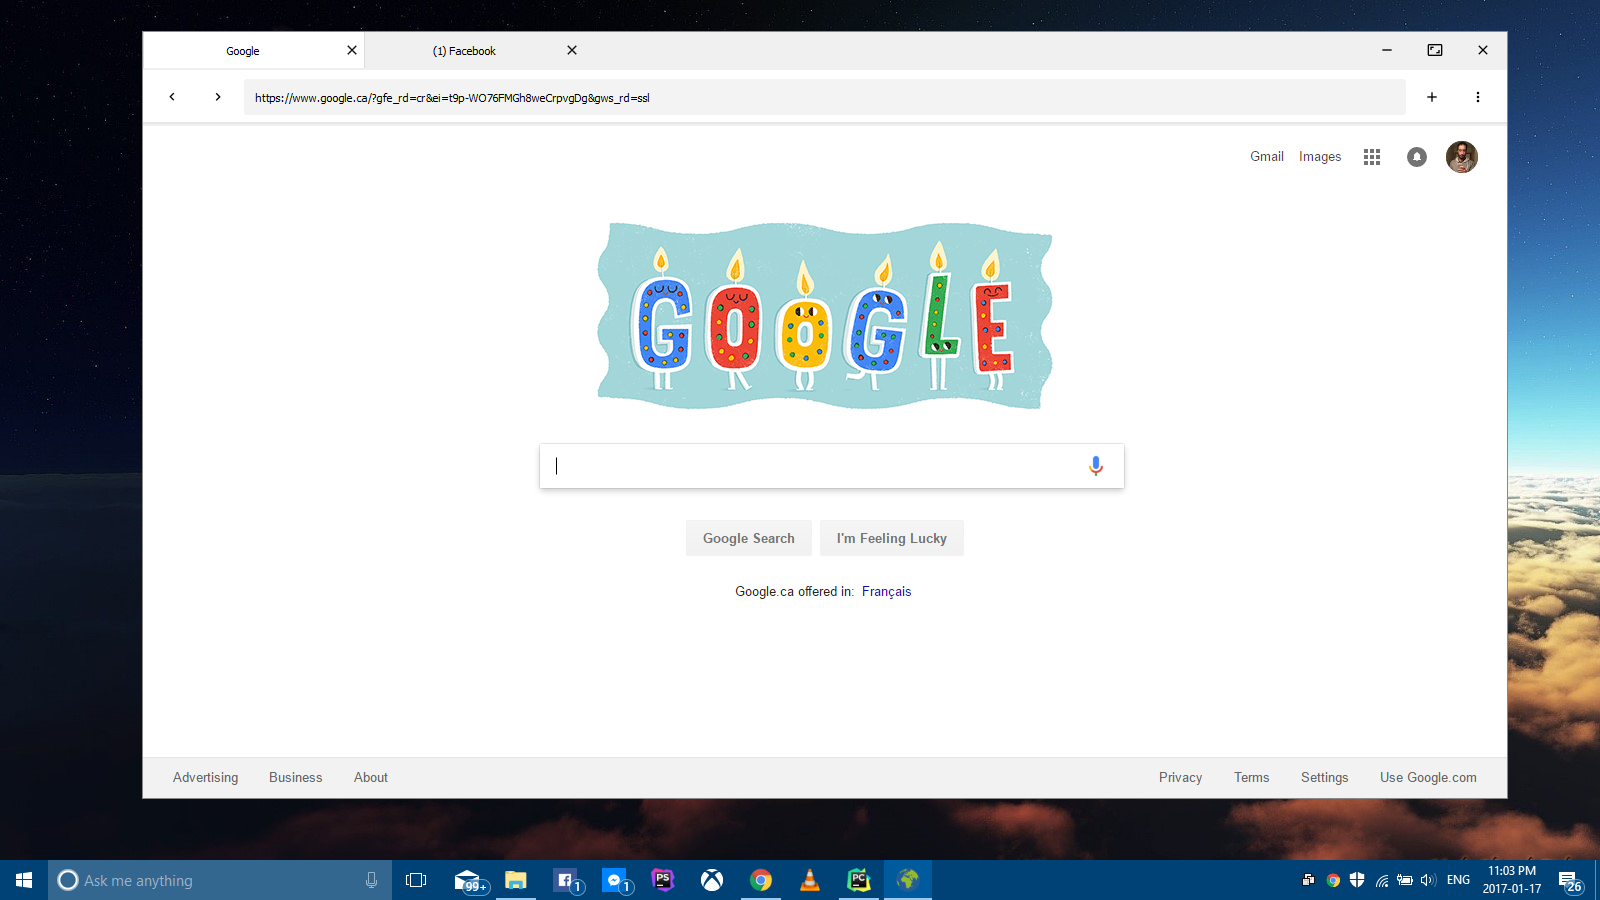
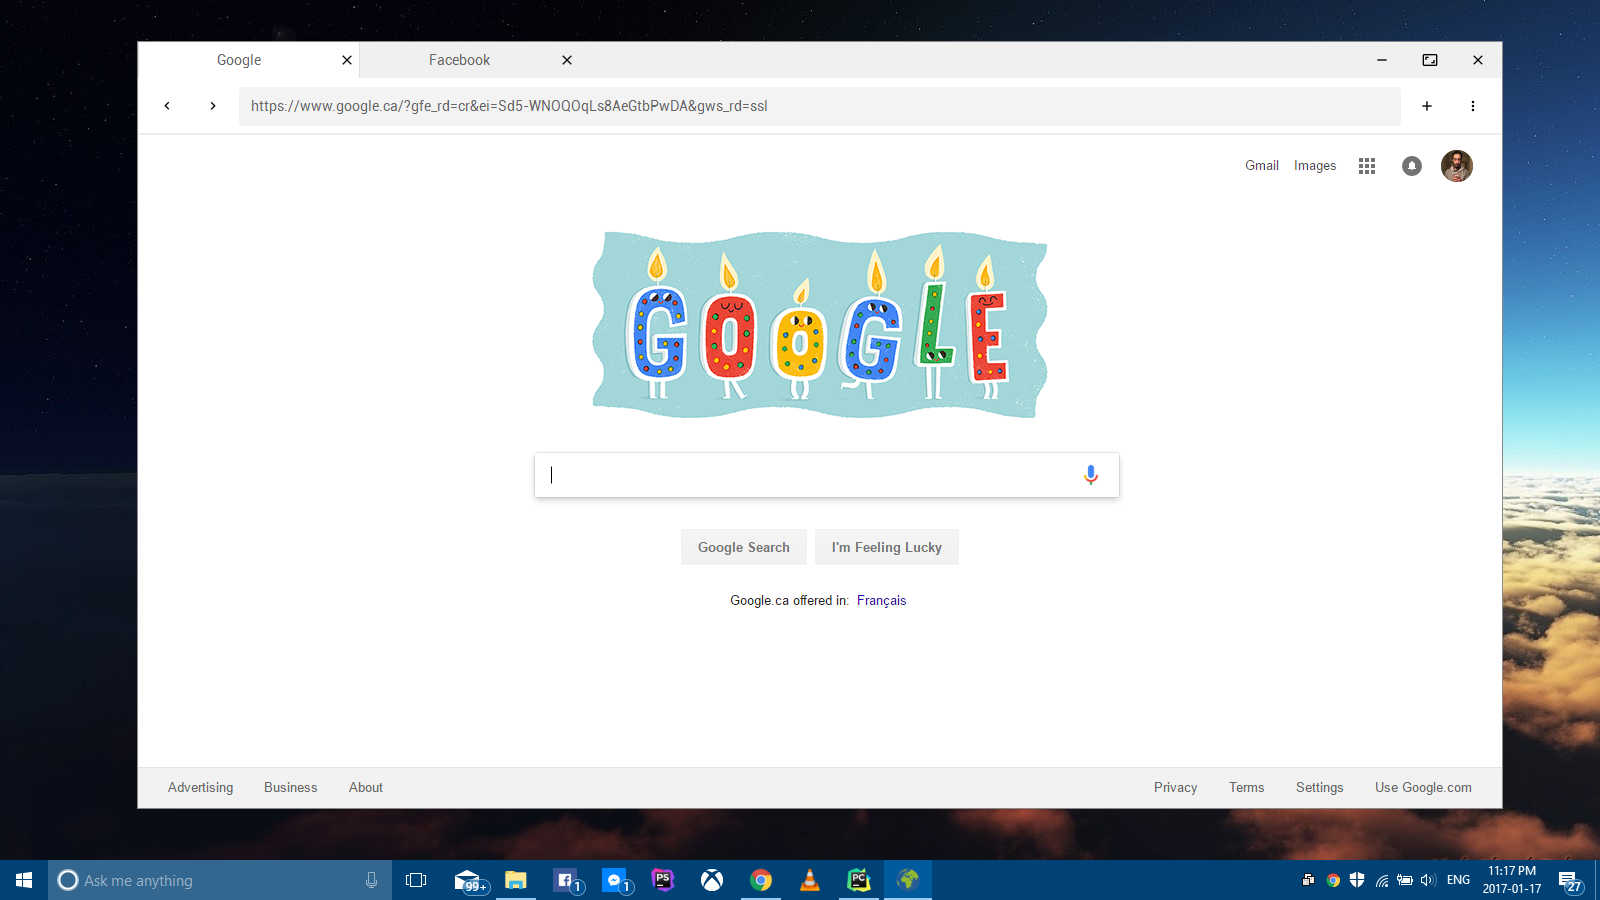
Fixed tabs, fonts, and text colors.

diff --git a/material.css b/material.css
@@ -1,3 +1,9 @@
+@import url('https://fonts.googleapis.com/css?family=Roboto');
+
+* {
+    font-family: 'Roboto', sans-serif;
+}
+
 QPushButton {
     border:none;
     background:transparent;
@@ -14,12 +20,15 @@ QLineEdit {
     padding:10px;
     border-radius:3px;
     box-shadow:0px 2px 5px rgba(0,0,0,.4);
+    font-size:14px;
+    color:#666;
 
 }
 
 QTabBar {
     background:transparent;
     border:none !important;
+    border-bottom:2px solid #eee;
 
 }
 
@@ -37,7 +46,7 @@ QTabBar::tab:selected {
 
 QWidget#toolbar {
     background:#fff;
-    border-bottom:2px solid rgba(0,0,0,.1);
+    border-bottom:0px solid rgba(0,0,0,.1);
     border-top:none;
 }
 
@@ -55,7 +64,9 @@ QTabBar::tab {
     margin:0px;
     padding:10px;
     text-align:left !important;
-
+    font-size:14px;
+    font-weight:400;
+    color:#666;
     width:200px;
 }
 
@@ -68,4 +79,10 @@ QTabBar::tab {
     padding-left:-20px;
 
 
+}
+
+QWidget#TabControls {
+    border-bottom:2px solid #eee;
+    background:#fff;
+    padding-bottom:15px;
 }

diff --git a/browser.py b/browser.py
@@ -38,7 +38,7 @@ class App(QFrame):
 
 
         # No margins around our main content
-        self.layout.setSpacing(2)
+        self.layout.setSpacing(0)
         self.layout.setContentsMargins(0,0,0,0)
 
         # Shortcuts
@@ -131,6 +131,7 @@ class App(QFrame):
         self.tabControls.addWidget(self.AddTabButton)
         self.tabControls.addWidget(self.MenuButton)
         self.tabControlWidget.setLayout(self.tabControls)
+        self.tabControlWidget.setObjectName("TabControls")
 
         # Create container that will hold the webviews:
         self.container = QWidget()
